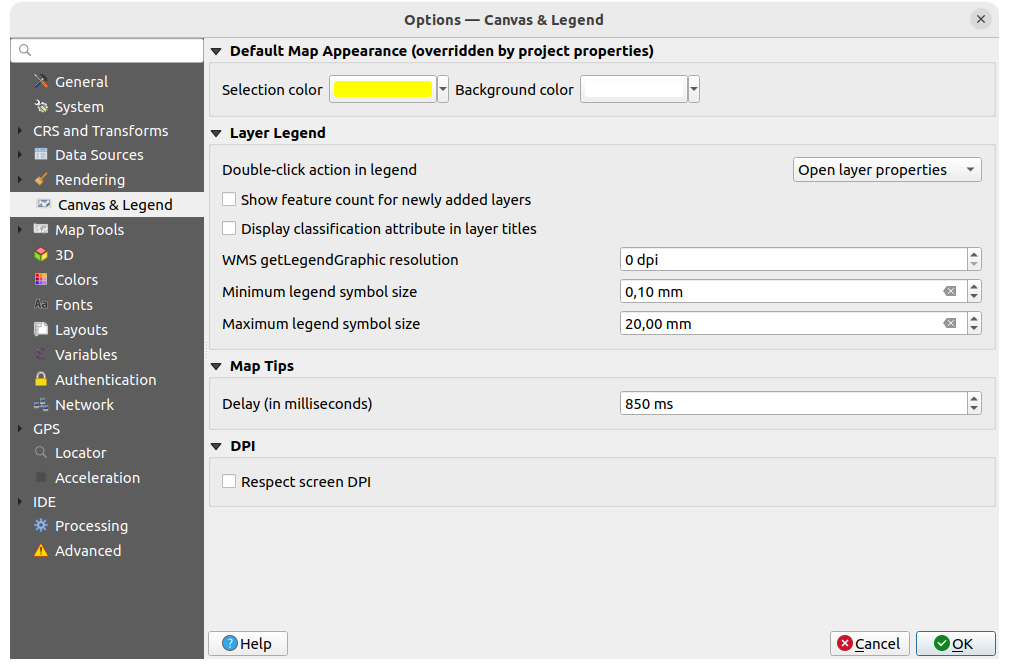
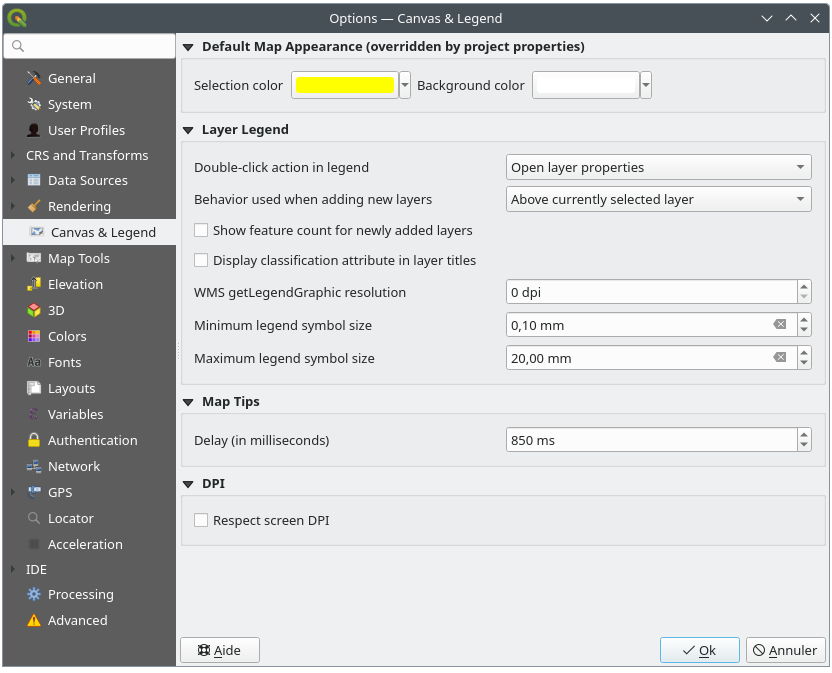
Describe new layer tree insertion methods - fixes #8038

diff --git a/docs/user_manual/introduction/qgis_configuration.rst b/docs/user_manual/introduction/qgis_configuration.rst
@@ -692,11 +692,27 @@ These properties let you set:
 
 * **Layer legend** interaction:
 
-  * :guilabel:`Double click action in legend` |selectString|. You can either
-    'Open layer properties', 'Open attribute table' or 'Open layer styling dock'
-    with the double click.
-  * |unchecked| :guilabel:`Show feature count for newly added layers`: displays
-    in the :guilabel:`Layers` panel the number of features next to the layer name.
+  * :guilabel:`Double click action in legend`: whether a double-click on a layer should either
+    :guilabel:`Open layer properties` (default), :guilabel:`Open attribute table`
+    or :guilabel:`Open layer styling dock`.
+
+  .. _layer_tree_insertion_methods:
+
+  * :guilabel:`Behavior used when adding new layers`: determines where layers are placed
+    in the :guilabel:`Layers` panel when loaded into QGIS. It can be:
+
+    * :guilabel:`Above currently selected layer`
+    * :guilabel:`Always on top of the layer tree`
+    * :guilabel:`Optimal index within current layer tree group`:
+      Unlike the other options that sort the new layers among them
+      and place them as a stack at the desired location,
+      this option extents the sorting logic to the whole layer tree (or the active group)
+      and inserts new layers in an "optimal" fashion
+      by insuring that point layers sit on top of point layers,
+      followed by line layers on top of lines, followed by polygon layers, etc.
+
+  * |unchecked| :guilabel:`Show feature count for newly added layers`:
+    displays in the :guilabel:`Layers` panel the number of features next to the layer name.
     Feature count of classes, if any, is as well displayed.
     You can right-click on a layer to turn on/off its feature count.
   * |unchecked| :guilabel:`Display classification attribute names` in the Layers

diff --git a/docs/user_manual/introduction/general_tools.rst b/docs/user_manual/introduction/general_tools.rst
@@ -49,6 +49,31 @@ The :guilabel:`Layers` panel (also called the ``map legend``) lists all
 the layers in the project and helps you manage their visibility and shape the map.
 You can show or hide the panel by pressing :kbd:`Ctrl+1`.
 
+QGIS provides a variety of ways to add layers to a project:
+
+* using the :guilabel:`Add` button from the dedicated data provider tab
+  in the :ref:`Data source manager <opening_data>` dialog
+* from QGIS :ref:`Browser panel <label_browserpanel>` or :ref:`DB Manager <dbmanager>`:
+  double-click, drag-and-drop files and layers onto QGIS or use the contextual menu
+* drag-and-drop files from the Operating System files explorer onto QGIS
+
+In all these scenarios, you can open one or many layers at a time.
+New layers are added to the :guilabel:`Layers` panel:
+
+#. if dropped over the :guilabel:`Layers` panel, at the exact location they are released
+#. in the other cases, at a location that respects the global :ref:`behavior used when adding new layers
+   <layer_tree_insertion_methods>` setting
+#. and in case of multiple layers, they are sorted in a way
+   that increases the chance of their stacking being logical
+   and features being visible as most as possible, using the following logic (top to bottom):
+
+   * vector point layers
+   * vector line layers
+   * vector polygon layers
+   * point cloud layers
+   * mesh layers
+   * raster layers
+
 At the top of the :guilabel:`Layers` panel, a toolbar allows you to:
 
 * |symbology| :sup:`Open the layer styling dock (F7)`: toggle the
